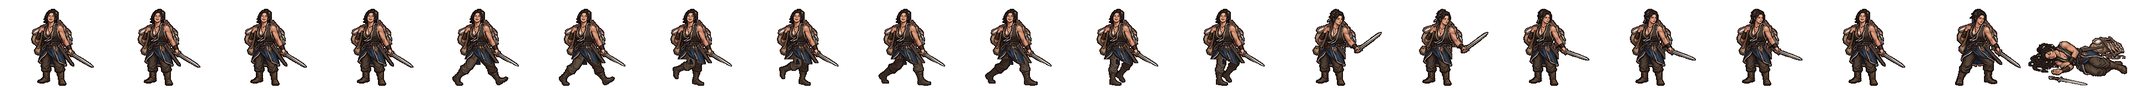
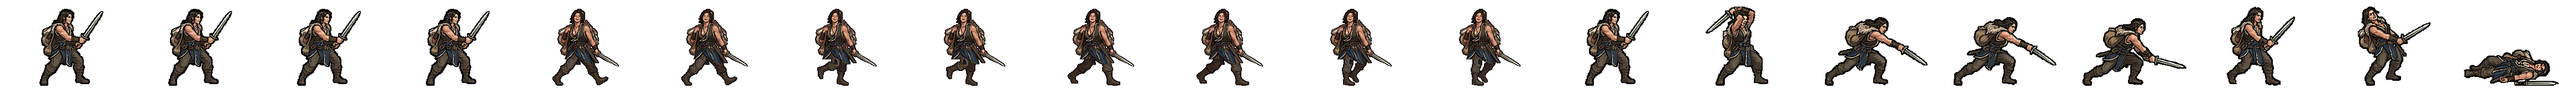
소금비 띠: 동작 8컷만 새로 (제미나이 edu Pro) — 공격 칸이 거의 안 움직이던 것을 큰 베기·찌르기로 (걷기는 그대로)
Claude-Session: https://claude.ai/code/session_01TRiuN9kn81xgdziumEqNAF

Changed region(s): [[0.0, 0.0625, 1.0, 0.9688]]

diff --git a/src/realm/data/spritePx.ts b/src/realm/data/spritePx.ts
@@ -1,2 +1,2 @@
 /** public/realm/anim-px/manifest.json 의 사본 — tools/sprite-normalize.mjs 가 만든다 (손으로 고치지 말 것). 칸 [가로, 세로] · feet = 발 줄(칸 위에서 y) · bodyPx = 서 있는 몸 키 */
-export const SPRITE_PX: Readonly<Record<string, { readonly cell: readonly [number, number]; readonly feet: number; readonly bodyPx: number; readonly kind: 'general' | 'soldier' | 'folk' | 'crowd'; readonly cells: number }>> = {"axe":{"cell":[166,128],"feet":126,"bodyPx":124,"kind":"soldier","cells":20},"bandit-chief":{"cell":[116,128],"feet":126,"bodyPx":117,"kind":"soldier","cells":20},"bandit-club":{"cell":[127,128],"feet":126,"bodyPx":116,"kind":"soldier","cells":20},"boat":{"cell":[269,128],"feet":126,"bodyPx":126,"kind":"soldier","cells":20},"bow":{"cell":[503,128],"feet":126,"bodyPx":127,"kind":"soldier","cells":20},"crossbow":{"cell":[614,128],"feet":126,"bodyPx":126,"kind":"soldier","cells":20},"gen-adogan":{"cell":[144,160],"feet":156,"bodyPx":70,"kind":"general","cells":20},"gen-alpyeong":{"cell":[144,160],"feet":156,"bodyPx":70,"kind":"general","cells":20},"gen-ara":{"cell":[160,160],"feet":156,"bodyPx":70,"kind":"general","cells":20},"gen-areum":{"cell":[160,160],"feet":156,"bodyPx":70,"kind":"general","cells":20},"gen-aryeong":{"cell":[208,160],"feet":156,"bodyPx":70,"kind":"general","cells":20},"gen-bakdal":{"cell":[160,160],"feet":156,"bodyPx":70,"kind":"general","cells":20},"gen-baram":{"cell":[176,160],"feet":156,"bodyPx":70,"kind":"general","cells":20},"gen-bdanbi":{"cell":[152,160],"feet":156,"bodyPx":70,"kind":"general","cells":20},"gen-beom":{"cell":[168,160],"feet":156,"bodyPx":70,"kind":"general","cells":20},"gen-beombal":{"cell":[216,160],"feet":156,"bodyPx":70,"kind":"general","cells":20},"gen-beomi":{"cell":[160,160],"feet":156,"bodyPx":70,"kind":"general","cells":20},"gen-bira":{"cell":[176,160],"feet":156,"bodyPx":70,"kind":"general","cells":20},"gen-biryu":{"cell":[160,160],"feet":156,"bodyPx":73,"kind":"general","cells":20},"gen-budeul":{"cell":[248,160],"feet":156,"bodyPx":70,"kind":"general","cells":20},"gen-byeol":{"cell":[160,160],"feet":156,"bodyPx":70,"kind":"general","cells":20},"gen-daemusin":{"cell":[152,160],"feet":156,"bodyPx":70,"kind":"general","cells":20},"gen-daeso":{"cell":[176,160],"feet":156,"bodyPx":70,"kind":"general","cells":20},"gen-dallae2":{"cell":[168,160],"feet":156,"bodyPx":70,"kind":"general","cells":20},"gen-dalli":{"cell":[152,160],"feet":156,"bodyPx":70,"kind":"general","cells":20},"gen-damul":{"cell":[152,160],"feet":156,"bodyPx":70,"kind":"general","cells":20},"gen-danbi":{"cell":[152,160],"feet":156,"bodyPx":70,"kind":"general","cells":20},"gen-dangung":{"cell":[192,160],"feet":156,"bodyPx":70,"kind":"general","cells":20},"gen-darae":{"cell":[152,160],"feet":156,"bodyPx":70,"kind":"general","cells":20},"gen-dokmudeom":{"cell":[176,160],"feet":156,"bodyPx":70,"kind":"general","cells":20},"gen-duman":{"cell":[160,160],"feet":156,"bodyPx":70,"kind":"general","cells":20},"gen-eomni":{"cell":[160,160],"feet":156,"bodyPx":70,"kind":"general","cells":20},"gen-eureum":{"cell":[144,160],"feet":156,"bodyPx":70,"kind":"general","cells":20},"gen-g-bow":{"cell":[144,160],"feet":156,"bodyPx":70,"kind":"general","cells":20},"gen-g-spear":{"cell":[208,160],"feet":156,"bodyPx":70,"kind":"general","cells":20},"gen-g-sword":{"cell":[192,160],"feet":156,"bodyPx":70,"kind":"general","cells":20},"gen-gaennae":{"cell":[232,160],"feet":156,"bodyPx":70,"kind":"general","cells":20},"gen-gamsil":{"cell":[160,160],"feet":156,"bodyPx":70,"kind":"general","cells":20},"gen-gaon":{"cell":[152,160],"feet":156,"bodyPx":70,"kind":"general","cells":20},"gen-geota":{"cell":[192,160],"feet":156,"bodyPx":69,"kind":"general","cells":20},"gen-geumbawi":{"cell":[160,160],"feet":156,"bodyPx":70,"kind":"general","cells":20},"gen-geumha":{"cell":[192,160],"feet":156,"bodyPx":72,"kind":"general","cells":20},"gen-goeun":{"cell":[144,160],"feet":156,"bodyPx":70,"kind":"general","cells":20},"gen-gom":{"cell":[168,160],"feet":156,"bodyPx":70,"kind":"general","cells":20},"gen-gomok":{"cell":[152,160],"feet":156,"bodyPx":70,"kind":"general","cells":20},"gen-gureum":{"cell":[168,160],"feet":156,"bodyPx":70,"kind":"general","cells":20},"gen-guryema":{"cell":[152,160],"feet":156,"bodyPx":70,"kind":"general","cells":20},"gen-gwaeyu":{"cell":[200,160],"feet":156,"bodyPx":70,"kind":"general","cells":20},"gen-haebi":{"cell":[152,160],"feet":156,"bodyPx":70,"kind":"general","cells":20},"gen-haedal":{"cell":[152,160],"feet":156,"bodyPx":70,"kind":"general","cells":20},"gen-haesol":{"cell":[168,160],"feet":156,"bodyPx":70,"kind":"general","cells":20},"gen-halla":{"cell":[176,160],"feet":156,"bodyPx":70,"kind":"general","cells":20},"gen-heo":{"cell":[144,160],"feet":156,"bodyPx":70,"kind":"general","cells":20},"gen-hneoul":{"cell":[152,160],"feet":156,"bodyPx":70,"kind":"general","cells":20},"gen-hogong":{"cell":[160,160],"feet":156,"bodyPx":70,"kind":"general","cells":20},"gen-hojin":{"cell":[152,160],"feet":156,"bodyPx":70,"kind":"general","cells":20},"gen-horselord":{"cell":[144,160],"feet":156,"bodyPx":70,"kind":"general","cells":20},"gen-hwalmi":{"cell":[192,160],"feet":156,"bodyPx":70,"kind":"general","cells":20},"gen-hyeokgeose":{"cell":[160,160],"feet":156,"bodyPx":70,"kind":"general","cells":20},"gen-hyeopbo":{"cell":[168,160],"feet":156,"bodyPx":70,"kind":"general","cells":20},"gen-irang":{"cell":[160,160],"feet":156,"bodyPx":70,"kind":"general","cells":20},"gen-jibaekho":{"cell":[160,160],"feet":156,"bodyPx":70,"kind":"general","cells":20},"gen-jinha":{"cell":[168,160],"feet":156,"bodyPx":70,"kind":"general","cells":20},"gen-jita":{"cell":[144,160],"feet":156,"bodyPx":70,"kind":"general","cells":20},"gen-jumong":{"cell":[144,160],"feet":156,"bodyPx":70,"kind":"general","cells":20},"gen-keundol":{"cell":[152,160],"feet":156,"bodyPx":70,"kind":"general","cells":20},"gen-maehwa":{"cell":[144,160],"feet":156,"bodyPx":70,"kind":"general","cells":20},"gen-maenun":{"cell":[136,160],"feet":156,"bodyPx":70,"kind":"general","cells":20},"gen-malgalgi":{"cell":[168,160],"feet":156,"bodyPx":70,"kind":"general","cells":20},"gen-mari":{"cell":[152,160],"feet":156,"bodyPx":70,"kind":"general","cells":20},"gen-maro":{"cell":[160,160],"feet":156,"bodyPx":70,"kind":"general","cells":20},"gen-maryeo":{"cell":[152,160],"feet":156,"bodyPx":70,"kind":"general","cells":20},"gen-mdallae":{"cell":[168,160],"feet":156,"bodyPx":70,"kind":"general","cells":20},"gen-mir":{"cell":[144,160],"feet":156,"bodyPx":70,"kind":"general","cells":20},"gen-mount":{"cell":[232,160],"feet":156,"bodyPx":73,"kind":"general","cells":20},"gen-mulbeom":{"cell":[160,160],"feet":156,"bodyPx":70,"kind":"general","cells":20},"gen-mulsae":{"cell":[168,160],"feet":156,"bodyPx":70,"kind":"general","cells":20},"gen-musoe":{"cell":[152,160],"feet":156,"bodyPx":70,"kind":"general","cells":20},"gen-noeul":{"cell":[160,160],"feet":156,"bodyPx":70,"kind":"general","cells":20},"gen-nuri":{"cell":[168,160],"feet":156,"bodyPx":70,"kind":"general","cells":20},"gen-ocheongan":{"cell":[168,160],"feet":156,"bodyPx":70,"kind":"general","cells":20},"gen-odi":{"cell":[152,160],"feet":156,"bodyPx":70,"kind":"general","cells":20},"gen-odogan":{"cell":[168,160],"feet":156,"bodyPx":70,"kind":"general","cells":20},"gen-ogan":{"cell":[152,160],"feet":156,"bodyPx":70,"kind":"general","cells":20},"gen-oi":{"cell":[152,160],"feet":156,"bodyPx":70,"kind":"general","cells":20},"gen-olddaeso":{"cell":[144,160],"feet":156,"bodyPx":70,"kind":"general","cells":20},"gen-onjo":{"cell":[152,160],"feet":156,"bodyPx":70,"kind":"general","cells":20},"gen-pidogan":{"cell":[152,160],"feet":156,"bodyPx":70,"kind":"general","cells":20},"gen-sagong":{"cell":[160,160],"feet":156,"bodyPx":70,"kind":"general","cells":20},"gen-sdallae":{"cell":[168,160],"feet":156,"bodyPx":70,"kind":"general","cells":20},"gen-sincheongan":{"cell":[160,160],"feet":156,"bodyPx":70,"kind":"general","cells":20},"gen-singwigan":{"cell":[208,160],"feet":156,"bodyPx":70,"kind":"general","cells":20},"gen-sinneoul":{"cell":[176,160],"feet":156,"bodyPx":70,"kind":"general","cells":20},"gen-sobeol":{"cell":[152,160],"feet":156,"bodyPx":70,"kind":"general","cells":20},"gen-soebi":{"cell":[160,160],"feet":156,"bodyPx":70,"kind":"general","cells":20},"gen-soebo":{"cell":[208,160],"feet":156,"bodyPx":72,"kind":"general","cells":20},"gen-soenun":{"cell":[248,160],"feet":156,"bodyPx":70,"kind":"general","cells":20},"gen-sogeumbi":{"cell":[192,160],"feet":156,"bodyPx":70,"kind":"general","cells":20},"gen-songbi":{"cell":[152,160],"feet":156,"bodyPx":70,"kind":"general","cells":20},"gen-songyang":{"cell":[136,160],"feet":156,"bodyPx":70,"kind":"general","cells":20},"gen-sori":{"cell":[208,160],"feet":156,"bodyPx":70,"kind":"general","cells":20},"gen-soseono":{"cell":[208,160],"feet":156,"bodyPx":70,"kind":"general","cells":20},"gen-suro":{"cell":[160,160],"feet":156,"bodyPx":70,"kind":"general","cells":20},"gen-tahae":{"cell":[152,160],"feet":156,"bodyPx":70,"kind":"general","cells":20},"gen-tneoul":{"cell":[152,160],"feet":156,"bodyPx":70,"kind":"general","cells":20},"gen-w-bow":{"cell":[144,160],"feet":156,"bodyPx":70,"kind":"general","cells":20},"gen-w-spear":{"cell":[176,160],"feet":156,"bodyPx":70,"kind":"general","cells":20},"gen-waechief":{"cell":[152,160],"feet":156,"bodyPx":70,"kind":"general","cells":20},"gen-wan":{"cell":[144,160],"feet":156,"bodyPx":70,"kind":"general","cells":20},"gen-yeodogan":{"cell":[176,160],"feet":156,"bodyPx":70,"kind":"general","cells":20},"gen-yucheongan":{"cell":[152,160],"feet":156,"bodyPx":70,"kind":"general","cells":20},"gen-yusugan":{"cell":[168,160],"feet":156,"bodyPx":70,"kind":"general","cells":20},"horse":{"cell":[186,128],"feet":126,"bodyPx":127,"kind":"soldier","cells":20},"marine":{"cell":[298,128],"feet":126,"bodyPx":126,"kind":"soldier","cells":20},"migrant":{"cell":[82,128],"feet":126,"bodyPx":114,"kind":"folk","cells":8},"militia":{"cell":[134,128],"feet":126,"bodyPx":119,"kind":"soldier","cells":20},"pike":{"cell":[380,128],"feet":126,"bodyPx":124,"kind":"soldier","cells":20},"pirate-captain":{"cell":[114,128],"feet":126,"bodyPx":115,"kind":"soldier","cells":20},"pirate-sword":{"cell":[122,128],"feet":126,"bodyPx":114,"kind":"soldier","cells":20},"shield":{"cell":[254,128],"feet":126,"bodyPx":128,"kind":"soldier","cells":20},"spear":{"cell":[438,128],"feet":126,"bodyPx":126,"kind":"soldier","cells":20},"villager-builder":{"cell":[88,128],"feet":126,"bodyPx":113,"kind":"folk","cells":8},"villager-farmer":{"cell":[100,128],"feet":126,"bodyPx":115,"kind":"folk","cells":8},"villager-porter":{"cell":[108,128],"feet":126,"bodyPx":115,"kind":"folk","cells":8},"villager-woman":{"cell":[63,128],"feet":126,"bodyPx":113,"kind":"folk","cells":8},"crowd-b1":{"cell":[69,96],"feet":96,"bodyPx":96,"kind":"crowd","cells":1},"crowd-b2":{"cell":[54,96],"feet":96,"bodyPx":96,"kind":"crowd","cells":1},"crowd-b3":{"cell":[47,96],"feet":96,"bodyPx":96,"kind":"crowd","cells":1},"crowd-b4":{"cell":[49,96],"feet":96,"bodyPx":96,"kind":"crowd","cells":1},"crowd-b5":{"cell":[57,96],"feet":96,"bodyPx":96,"kind":"crowd","cells":1},"crowd-b6":{"cell":[55,96],"feet":96,"bodyPx":96,"kind":"crowd","cells":1},"crowd-f1":{"cell":[69,96],"feet":96,"bodyPx":96,"kind":"crowd","cells":1},"crowd-f2":{"cell":[55,96],"feet":96,"bodyPx":96,"kind":"crowd","cells":1},"crowd-f3":{"cell":[45,96],"feet":96,"bodyPx":96,"kind":"crowd","cells":1},"crowd-f4":{"cell":[53,96],"feet":96,"bodyPx":96,"kind":"crowd","cells":1},"crowd-f5":{"cell":[69,96],"feet":96,"bodyPx":96,"kind":"crowd","cells":1},"crowd-f6":{"cell":[64,96],"feet":96,"bodyPx":96,"kind":"crowd","cells":1},"gen-dalbit":{"cell":[96,72],"feet":72,"bodyPx":72,"kind":"general","cells":20}}
+export const SPRITE_PX: Readonly<Record<string, { readonly cell: readonly [number, number]; readonly feet: number; readonly bodyPx: number; readonly kind: 'general' | 'soldier' | 'folk' | 'crowd'; readonly cells: number }>> = {"axe":{"cell":[166,128],"feet":126,"bodyPx":124,"kind":"soldier","cells":20},"bandit-chief":{"cell":[116,128],"feet":126,"bodyPx":117,"kind":"soldier","cells":20},"bandit-club":{"cell":[127,128],"feet":126,"bodyPx":116,"kind":"soldier","cells":20},"boat":{"cell":[269,128],"feet":126,"bodyPx":126,"kind":"soldier","cells":20},"bow":{"cell":[503,128],"feet":126,"bodyPx":127,"kind":"soldier","cells":20},"crossbow":{"cell":[614,128],"feet":126,"bodyPx":126,"kind":"soldier","cells":20},"gen-adogan":{"cell":[144,160],"feet":156,"bodyPx":70,"kind":"general","cells":20},"gen-alpyeong":{"cell":[144,160],"feet":156,"bodyPx":70,"kind":"general","cells":20},"gen-ara":{"cell":[160,160],"feet":156,"bodyPx":70,"kind":"general","cells":20},"gen-areum":{"cell":[160,160],"feet":156,"bodyPx":70,"kind":"general","cells":20},"gen-aryeong":{"cell":[208,160],"feet":156,"bodyPx":70,"kind":"general","cells":20},"gen-bakdal":{"cell":[160,160],"feet":156,"bodyPx":70,"kind":"general","cells":20},"gen-baram":{"cell":[176,160],"feet":156,"bodyPx":70,"kind":"general","cells":20},"gen-bdanbi":{"cell":[152,160],"feet":156,"bodyPx":70,"kind":"general","cells":20},"gen-beom":{"cell":[168,160],"feet":156,"bodyPx":70,"kind":"general","cells":20},"gen-beombal":{"cell":[216,160],"feet":156,"bodyPx":70,"kind":"general","cells":20},"gen-beomi":{"cell":[160,160],"feet":156,"bodyPx":70,"kind":"general","cells":20},"gen-bira":{"cell":[176,160],"feet":156,"bodyPx":70,"kind":"general","cells":20},"gen-biryu":{"cell":[160,160],"feet":156,"bodyPx":73,"kind":"general","cells":20},"gen-budeul":{"cell":[248,160],"feet":156,"bodyPx":70,"kind":"general","cells":20},"gen-byeol":{"cell":[160,160],"feet":156,"bodyPx":70,"kind":"general","cells":20},"gen-daemusin":{"cell":[152,160],"feet":156,"bodyPx":70,"kind":"general","cells":20},"gen-daeso":{"cell":[176,160],"feet":156,"bodyPx":70,"kind":"general","cells":20},"gen-dallae2":{"cell":[168,160],"feet":156,"bodyPx":70,"kind":"general","cells":20},"gen-dalli":{"cell":[152,160],"feet":156,"bodyPx":70,"kind":"general","cells":20},"gen-damul":{"cell":[152,160],"feet":156,"bodyPx":70,"kind":"general","cells":20},"gen-danbi":{"cell":[152,160],"feet":156,"bodyPx":70,"kind":"general","cells":20},"gen-dangung":{"cell":[192,160],"feet":156,"bodyPx":70,"kind":"general","cells":20},"gen-darae":{"cell":[152,160],"feet":156,"bodyPx":70,"kind":"general","cells":20},"gen-dokmudeom":{"cell":[176,160],"feet":156,"bodyPx":70,"kind":"general","cells":20},"gen-duman":{"cell":[160,160],"feet":156,"bodyPx":70,"kind":"general","cells":20},"gen-eomni":{"cell":[160,160],"feet":156,"bodyPx":70,"kind":"general","cells":20},"gen-eureum":{"cell":[144,160],"feet":156,"bodyPx":70,"kind":"general","cells":20},"gen-g-bow":{"cell":[144,160],"feet":156,"bodyPx":70,"kind":"general","cells":20},"gen-g-spear":{"cell":[208,160],"feet":156,"bodyPx":70,"kind":"general","cells":20},"gen-g-sword":{"cell":[192,160],"feet":156,"bodyPx":70,"kind":"general","cells":20},"gen-gaennae":{"cell":[232,160],"feet":156,"bodyPx":70,"kind":"general","cells":20},"gen-gamsil":{"cell":[160,160],"feet":156,"bodyPx":70,"kind":"general","cells":20},"gen-gaon":{"cell":[152,160],"feet":156,"bodyPx":70,"kind":"general","cells":20},"gen-geota":{"cell":[192,160],"feet":156,"bodyPx":69,"kind":"general","cells":20},"gen-geumbawi":{"cell":[160,160],"feet":156,"bodyPx":70,"kind":"general","cells":20},"gen-geumha":{"cell":[192,160],"feet":156,"bodyPx":72,"kind":"general","cells":20},"gen-goeun":{"cell":[144,160],"feet":156,"bodyPx":70,"kind":"general","cells":20},"gen-gom":{"cell":[168,160],"feet":156,"bodyPx":70,"kind":"general","cells":20},"gen-gomok":{"cell":[152,160],"feet":156,"bodyPx":70,"kind":"general","cells":20},"gen-gureum":{"cell":[168,160],"feet":156,"bodyPx":70,"kind":"general","cells":20},"gen-guryema":{"cell":[152,160],"feet":156,"bodyPx":70,"kind":"general","cells":20},"gen-gwaeyu":{"cell":[200,160],"feet":156,"bodyPx":70,"kind":"general","cells":20},"gen-haebi":{"cell":[152,160],"feet":156,"bodyPx":70,"kind":"general","cells":20},"gen-haedal":{"cell":[152,160],"feet":156,"bodyPx":70,"kind":"general","cells":20},"gen-haesol":{"cell":[168,160],"feet":156,"bodyPx":70,"kind":"general","cells":20},"gen-halla":{"cell":[176,160],"feet":156,"bodyPx":70,"kind":"general","cells":20},"gen-heo":{"cell":[144,160],"feet":156,"bodyPx":70,"kind":"general","cells":20},"gen-hneoul":{"cell":[152,160],"feet":156,"bodyPx":70,"kind":"general","cells":20},"gen-hogong":{"cell":[160,160],"feet":156,"bodyPx":70,"kind":"general","cells":20},"gen-hojin":{"cell":[152,160],"feet":156,"bodyPx":70,"kind":"general","cells":20},"gen-horselord":{"cell":[144,160],"feet":156,"bodyPx":70,"kind":"general","cells":20},"gen-hwalmi":{"cell":[192,160],"feet":156,"bodyPx":70,"kind":"general","cells":20},"gen-hyeokgeose":{"cell":[160,160],"feet":156,"bodyPx":70,"kind":"general","cells":20},"gen-hyeopbo":{"cell":[168,160],"feet":156,"bodyPx":70,"kind":"general","cells":20},"gen-irang":{"cell":[160,160],"feet":156,"bodyPx":70,"kind":"general","cells":20},"gen-jibaekho":{"cell":[160,160],"feet":156,"bodyPx":70,"kind":"general","cells":20},"gen-jinha":{"cell":[168,160],"feet":156,"bodyPx":70,"kind":"general","cells":20},"gen-jita":{"cell":[144,160],"feet":156,"bodyPx":70,"kind":"general","cells":20},"gen-jumong":{"cell":[144,160],"feet":156,"bodyPx":70,"kind":"general","cells":20},"gen-keundol":{"cell":[152,160],"feet":156,"bodyPx":70,"kind":"general","cells":20},"gen-maehwa":{"cell":[144,160],"feet":156,"bodyPx":70,"kind":"general","cells":20},"gen-maenun":{"cell":[136,160],"feet":156,"bodyPx":70,"kind":"general","cells":20},"gen-malgalgi":{"cell":[168,160],"feet":156,"bodyPx":70,"kind":"general","cells":20},"gen-mari":{"cell":[152,160],"feet":156,"bodyPx":70,"kind":"general","cells":20},"gen-maro":{"cell":[160,160],"feet":156,"bodyPx":70,"kind":"general","cells":20},"gen-maryeo":{"cell":[152,160],"feet":156,"bodyPx":70,"kind":"general","cells":20},"gen-mdallae":{"cell":[168,160],"feet":156,"bodyPx":70,"kind":"general","cells":20},"gen-mir":{"cell":[144,160],"feet":156,"bodyPx":70,"kind":"general","cells":20},"gen-mount":{"cell":[232,160],"feet":156,"bodyPx":73,"kind":"general","cells":20},"gen-mulbeom":{"cell":[160,160],"feet":156,"bodyPx":70,"kind":"general","cells":20},"gen-mulsae":{"cell":[168,160],"feet":156,"bodyPx":70,"kind":"general","cells":20},"gen-musoe":{"cell":[152,160],"feet":156,"bodyPx":70,"kind":"general","cells":20},"gen-noeul":{"cell":[160,160],"feet":156,"bodyPx":70,"kind":"general","cells":20},"gen-nuri":{"cell":[168,160],"feet":156,"bodyPx":70,"kind":"general","cells":20},"gen-ocheongan":{"cell":[168,160],"feet":156,"bodyPx":70,"kind":"general","cells":20},"gen-odi":{"cell":[152,160],"feet":156,"bodyPx":70,"kind":"general","cells":20},"gen-odogan":{"cell":[168,160],"feet":156,"bodyPx":70,"kind":"general","cells":20},"gen-ogan":{"cell":[152,160],"feet":156,"bodyPx":70,"kind":"general","cells":20},"gen-oi":{"cell":[152,160],"feet":156,"bodyPx":70,"kind":"general","cells":20},"gen-olddaeso":{"cell":[144,160],"feet":156,"bodyPx":70,"kind":"general","cells":20},"gen-onjo":{"cell":[152,160],"feet":156,"bodyPx":70,"kind":"general","cells":20},"gen-pidogan":{"cell":[152,160],"feet":156,"bodyPx":70,"kind":"general","cells":20},"gen-sagong":{"cell":[160,160],"feet":156,"bodyPx":70,"kind":"general","cells":20},"gen-sdallae":{"cell":[168,160],"feet":156,"bodyPx":70,"kind":"general","cells":20},"gen-sincheongan":{"cell":[160,160],"feet":156,"bodyPx":70,"kind":"general","cells":20},"gen-singwigan":{"cell":[208,160],"feet":156,"bodyPx":70,"kind":"general","cells":20},"gen-sinneoul":{"cell":[176,160],"feet":156,"bodyPx":70,"kind":"general","cells":20},"gen-sobeol":{"cell":[152,160],"feet":156,"bodyPx":70,"kind":"general","cells":20},"gen-soebi":{"cell":[160,160],"feet":156,"bodyPx":70,"kind":"general","cells":20},"gen-soebo":{"cell":[208,160],"feet":156,"bodyPx":72,"kind":"general","cells":20},"gen-soenun":{"cell":[248,160],"feet":156,"bodyPx":70,"kind":"general","cells":20},"gen-sogeumbi":{"cell":[232,160],"feet":156,"bodyPx":70,"kind":"general","cells":20},"gen-songbi":{"cell":[152,160],"feet":156,"bodyPx":70,"kind":"general","cells":20},"gen-songyang":{"cell":[136,160],"feet":156,"bodyPx":70,"kind":"general","cells":20},"gen-sori":{"cell":[208,160],"feet":156,"bodyPx":70,"kind":"general","cells":20},"gen-soseono":{"cell":[208,160],"feet":156,"bodyPx":70,"kind":"general","cells":20},"gen-suro":{"cell":[160,160],"feet":156,"bodyPx":70,"kind":"general","cells":20},"gen-tahae":{"cell":[152,160],"feet":156,"bodyPx":70,"kind":"general","cells":20},"gen-tneoul":{"cell":[152,160],"feet":156,"bodyPx":70,"kind":"general","cells":20},"gen-w-bow":{"cell":[144,160],"feet":156,"bodyPx":70,"kind":"general","cells":20},"gen-w-spear":{"cell":[176,160],"feet":156,"bodyPx":70,"kind":"general","cells":20},"gen-waechief":{"cell":[152,160],"feet":156,"bodyPx":70,"kind":"general","cells":20},"gen-wan":{"cell":[144,160],"feet":156,"bodyPx":70,"kind":"general","cells":20},"gen-yeodogan":{"cell":[176,160],"feet":156,"bodyPx":70,"kind":"general","cells":20},"gen-yucheongan":{"cell":[152,160],"feet":156,"bodyPx":70,"kind":"general","cells":20},"gen-yusugan":{"cell":[168,160],"feet":156,"bodyPx":70,"kind":"general","cells":20},"horse":{"cell":[186,128],"feet":126,"bodyPx":127,"kind":"soldier","cells":20},"marine":{"cell":[298,128],"feet":126,"bodyPx":126,"kind":"soldier","cells":20},"migrant":{"cell":[82,128],"feet":126,"bodyPx":114,"kind":"folk","cells":8},"militia":{"cell":[134,128],"feet":126,"bodyPx":119,"kind":"soldier","cells":20},"pike":{"cell":[380,128],"feet":126,"bodyPx":124,"kind":"soldier","cells":20},"pirate-captain":{"cell":[114,128],"feet":126,"bodyPx":115,"kind":"soldier","cells":20},"pirate-sword":{"cell":[122,128],"feet":126,"bodyPx":114,"kind":"soldier","cells":20},"shield":{"cell":[254,128],"feet":126,"bodyPx":128,"kind":"soldier","cells":20},"spear":{"cell":[438,128],"feet":126,"bodyPx":126,"kind":"soldier","cells":20},"villager-builder":{"cell":[88,128],"feet":126,"bodyPx":113,"kind":"folk","cells":8},"villager-farmer":{"cell":[100,128],"feet":126,"bodyPx":115,"kind":"folk","cells":8},"villager-porter":{"cell":[108,128],"feet":126,"bodyPx":115,"kind":"folk","cells":8},"villager-woman":{"cell":[63,128],"feet":126,"bodyPx":113,"kind":"folk","cells":8},"crowd-b1":{"cell":[69,96],"feet":96,"bodyPx":96,"kind":"crowd","cells":1},"crowd-b2":{"cell":[54,96],"feet":96,"bodyPx":96,"kind":"crowd","cells":1},"crowd-b3":{"cell":[47,96],"feet":96,"bodyPx":96,"kind":"crowd","cells":1},"crowd-b4":{"cell":[49,96],"feet":96,"bodyPx":96,"kind":"crowd","cells":1},"crowd-b5":{"cell":[57,96],"feet":96,"bodyPx":96,"kind":"crowd","cells":1},"crowd-b6":{"cell":[55,96],"feet":96,"bodyPx":96,"kind":"crowd","cells":1},"crowd-f1":{"cell":[69,96],"feet":96,"bodyPx":96,"kind":"crowd","cells":1},"crowd-f2":{"cell":[55,96],"feet":96,"bodyPx":96,"kind":"crowd","cells":1},"crowd-f3":{"cell":[45,96],"feet":96,"bodyPx":96,"kind":"crowd","cells":1},"crowd-f4":{"cell":[53,96],"feet":96,"bodyPx":96,"kind":"crowd","cells":1},"crowd-f5":{"cell":[69,96],"feet":96,"bodyPx":96,"kind":"crowd","cells":1},"crowd-f6":{"cell":[64,96],"feet":96,"bodyPx":96,"kind":"crowd","cells":1},"gen-dalbit":{"cell":[96,72],"feet":72,"bodyPx":72,"kind":"general","cells":20}}

diff --git a/src/realm/data/art.ts b/src/realm/data/art.ts
@@ -504,7 +504,7 @@ export const GEN_ANIM: Readonly<Partial<Record<string, { ar: number; body: numbe
   geota: { ar: 183 / 160, body: 0.856, mount: true }, // 11-08 초상대로 다시 (형: 「투구 쓰고 원본과 다르다」 · 제미나이 걷기 4×2 + 동작 4×2 → 20컷 · assets_src/realm/gemini/generals2) · 11-08 처음 · 말 탄 장수 · 상투·높은 목가리개 쇠 미늘·곧은 고리자루 칼 베기
   soebo: { ar: 186 / 160, body: 0.831, mount: true }, // 11-08 초상대로 다시 (형: 「투구 쓰고 원본과 다르다」 · 제미나이 걷기 4×2 + 동작 4×2 → 20컷 · assets_src/realm/gemini/generals2) · 11-08 처음 · 말 탄 장수 · 뾰족 금관 띠·숯 묻은 얼굴·가죽 앞치마·큰 쇠망치 내려치기
   sori: { ar: 280 / 160, body: 0.9375 }, // normal portrait, right-hand dagger, shared four-pose walk
-  sogeumbi: { ar: 280 / 160, body: 0.9375 }, // same-hand short downcut, shared four-pose walk
+  sogeumbi: { ar: 280 / 160, body: 0.9375 }, // 11-11 동작 8컷 새로(제미나이 edu Pro · 큰 베기/찌르기, 걷기는 그대로) · same-hand short downcut, shared four-pose walk
   budeul: { ar: 280 / 160, body: 0.9375 }, // 11-07 original Budeul upper body/knife + shared 4-pose trousers
   gaennae: { ar: 264 / 160, body: 0.9375 }, // 11-07 원초상 기준 · 하체 4실자세/고정 상체 · 공격 뒤발 고정 · 20칸
   beombal: { ar: 280 / 160, body: 0.9375 }, // 11-08 범발 · Codex 정규화 셀(대기·갯내 4실보행 하체·준비/찌르기/피격) + 아틀라스 우하단 쓰러짐 · 뺨 줄무늬는 오른쪽을 보는 몸의 왼뺨(원초상과 같은 쪽)

diff --git a/src/ui/realm/battle-strikes.ts b/src/ui/realm/battle-strikes.ts
@@ -147,7 +147,7 @@ const CONTACT: Readonly<Record<string, [number, number, number]>> = {
   'gen-biryu': [14, 0.90, 0.35], 'gen-geumha': [14, 0.94, 0.61], 'gen-geota': [14, 0.86, 0.47], 'gen-soebo': [14, 0.87, 0.57],
   'gen-gaennae': [14, 249 / 264, 47 / 160],
   'gen-budeul': [14, 266 / 280, 51 / 160],
-  'gen-sogeumbi': [14, 225 / 280, 103 / 160],
+  'gen-sogeumbi': [14, .88, .70],
   'gen-sori': [14, 243 / 280, 42 / 160],
   'gen-beombal': [14, 248 / 280, 51 / 160],
   'gen-hwalmi': [14, 204 / 280, 50 / 160],

diff --git a/tools/sprite-kit/regrid.py b/tools/sprite-kit/regrid.py
@@ -1,0 +1,14 @@
+"""regrid.py <키잉된 시트 -key.png> <열수> <행수> <out 4x2 시트> <r,c> x8 — 제미나이가 4x2 대신 4x4 등으로 낸 시트에서 컷 여덟을 골라
+cut.sh 가 읽는 4x2 시트(1376x768, 칸 344x384, 발 기준선 맞춤)로 다시 놓는다. (11-11 소금비 동작 시트가 4x4 로 나왔다)"""
+import sys
+from PIL import Image
+import numpy as np
+src = Image.open(sys.argv[1]).convert('RGBA'); cols, rows = int(sys.argv[2]), int(sys.argv[3]); out = sys.argv[4]
+picks = [tuple(int(v) for v in a.split(',')) for a in sys.argv[5:13]]
+cw, ch = src.width // cols, src.height // rows
+sheet = Image.new('RGBA', (1376, 768), (0, 0, 0, 0))
+for i, (r, c) in enumerate(picks):
+    cell = src.crop((c * cw, r * ch, (c + 1) * cw, (r + 1) * ch))
+    sheet.alpha_composite(cell, ((i % 4) * 344 + (344 - cw) // 2, (i // 4) * 384 + 384 - ch))
+sheet.save(out)
+print('regrid', cw, ch, out)
